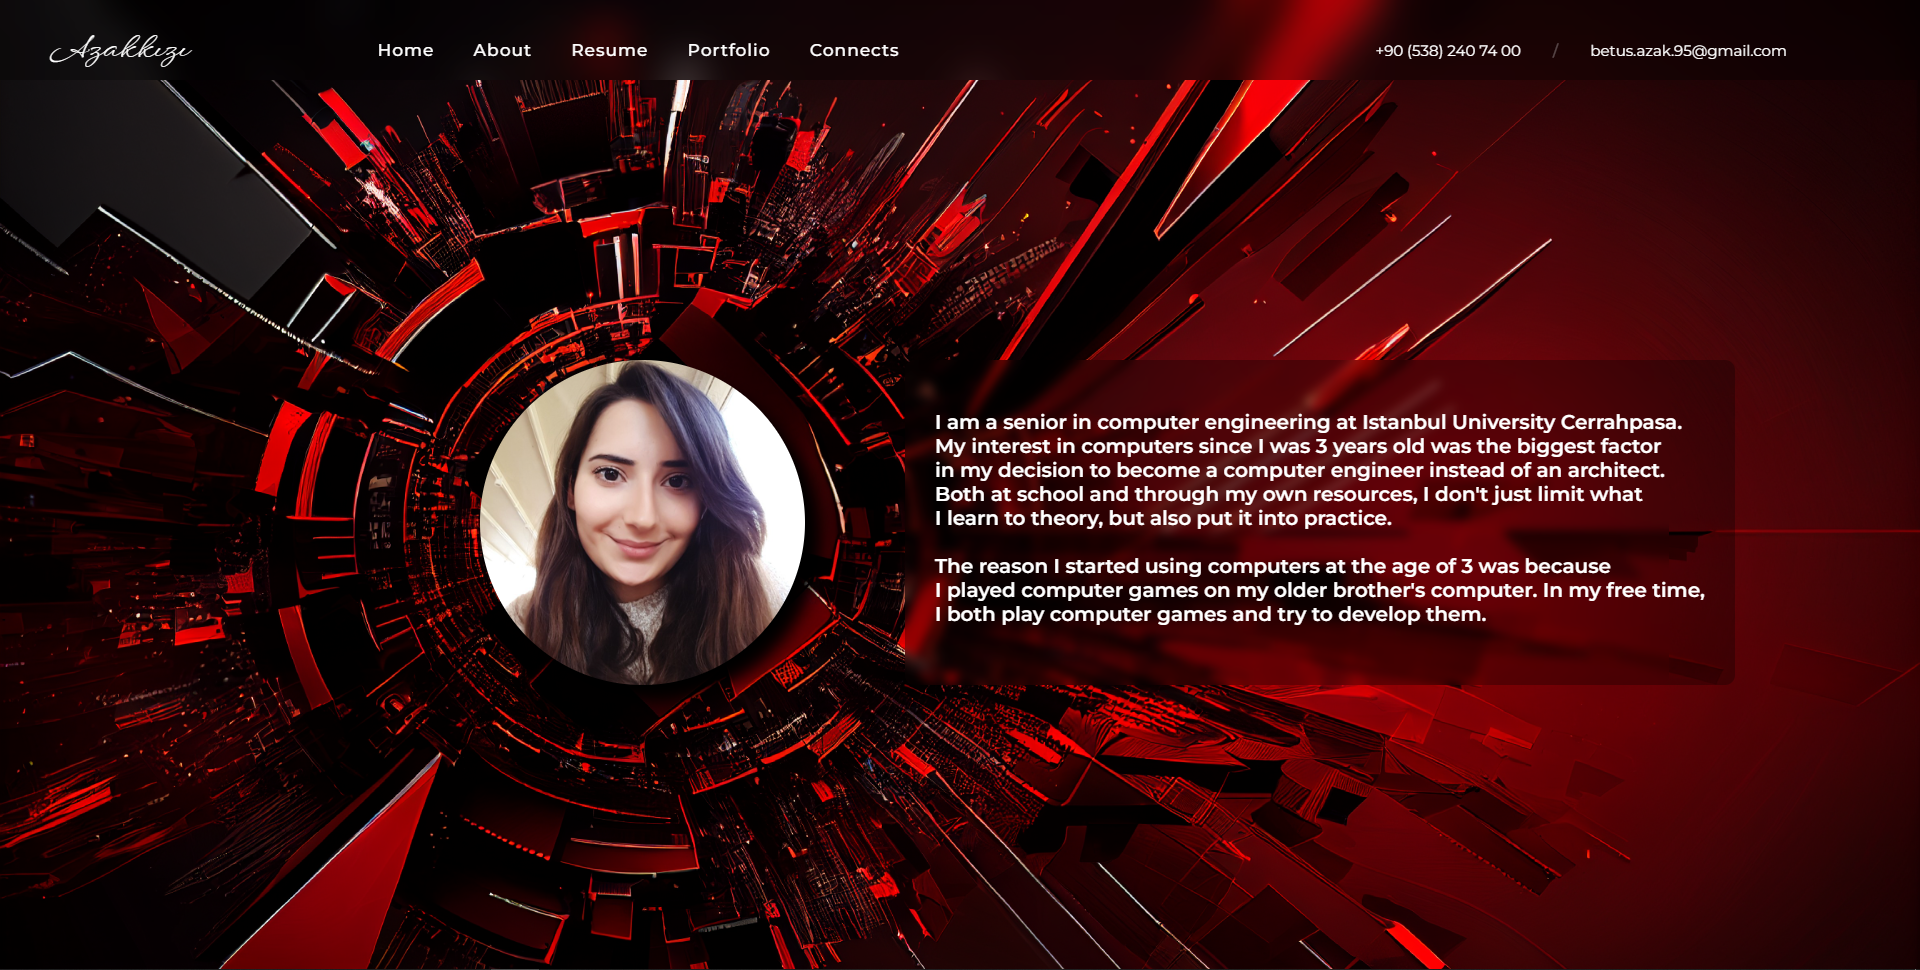
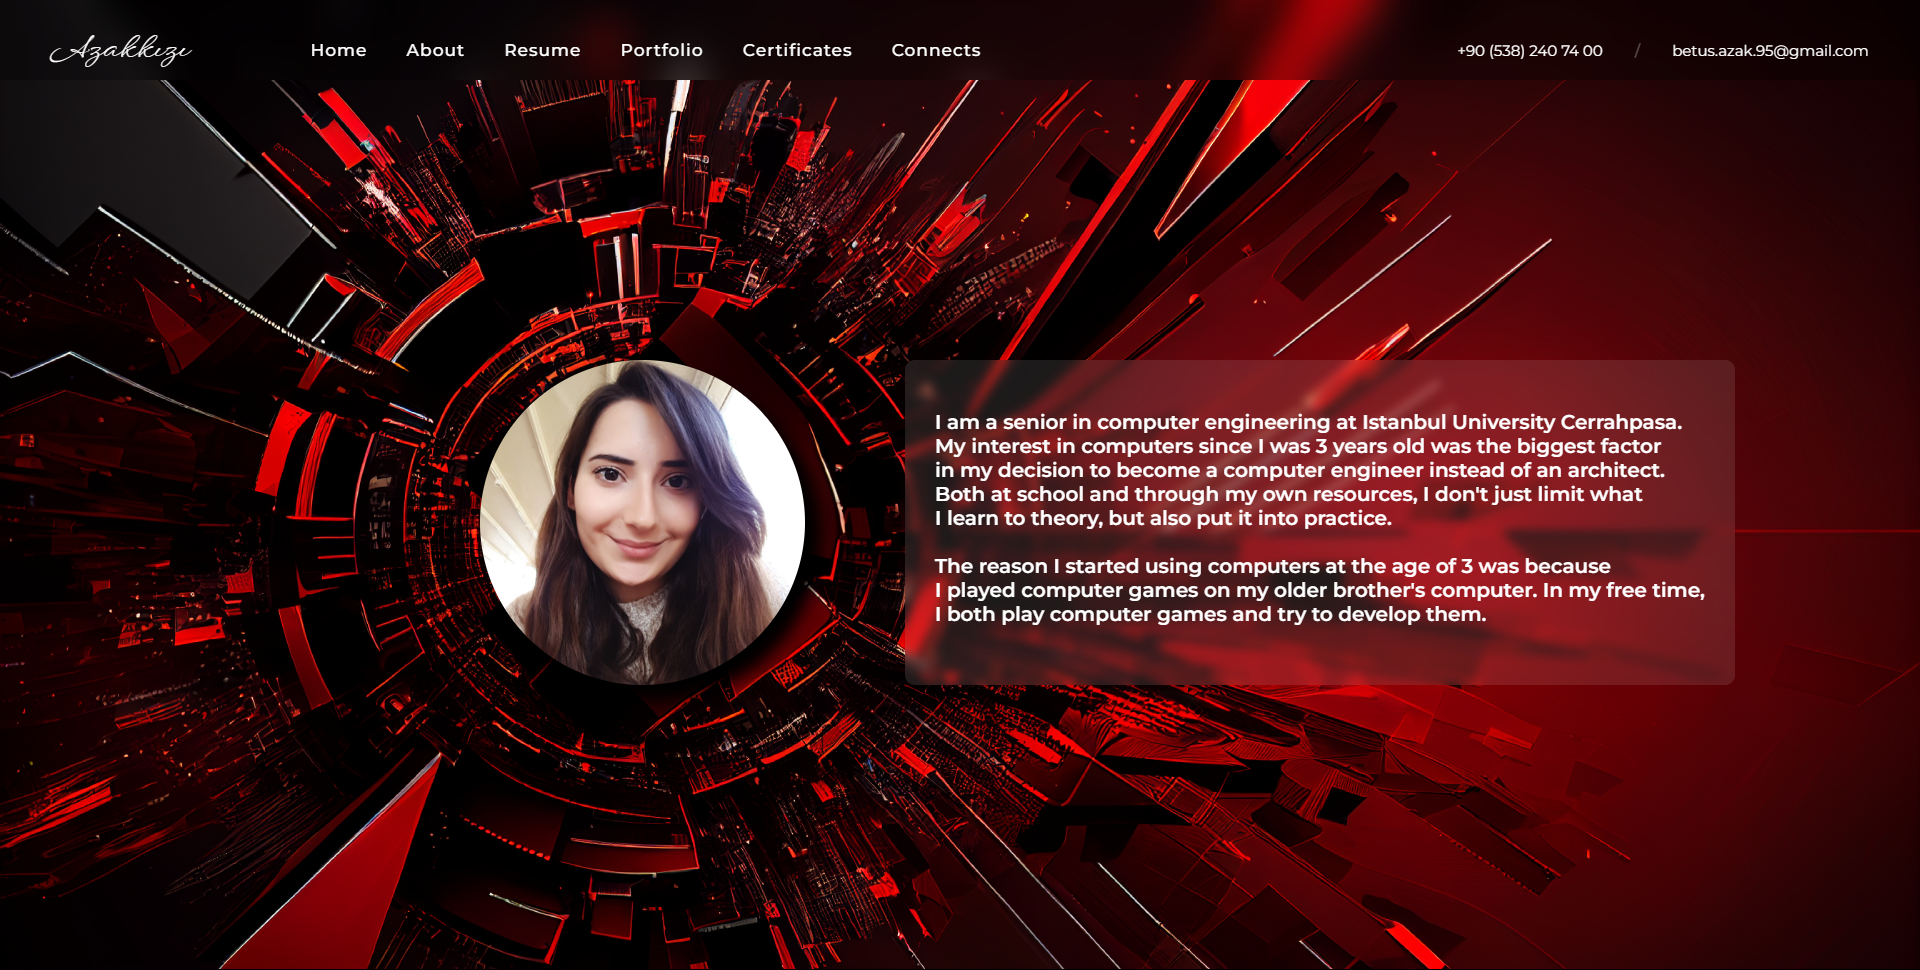
added certificates and some changes

Changed region(s): [[0.4688, 0.3711, 0.9062, 0.7113], [0.1562, 0.0309, 0.5, 0.0619], [0.7188, 0.0309, 0.9688, 0.0619]]

diff --git a/certificates.html b/certificates.html
@@ -1,0 +1,99 @@
+<!DOCTYPE html>
+<html>
+<head>
+	<title>Certificates - Betül Azakoğlu</title>
+	<meta charset="UTF-8">
+	<meta name="viewport" content="width=device-width, initial-scale=1">
+	<link rel="stylesheet" type="text/css" href="style.css">
+    <link rel="shortcut icon" type="image/x-icon" href="./images/favicon.png">
+    <link href="https://stackpath.bootstrapcdn.com/font-awesome/4.7.0/css/font-awesome.min.css" rel="stylesheet">
+    <link href="https://fonts.googleapis.com/css2?family=Montserrat:wght@300;400;500;600;700;800;900&display=swap" rel="stylesheet">
+    <link href="https://fonts.googleapis.com/css2?family=WindSong&display=swap" rel="stylesheet">
+    <script src="component.js"></script>
+    <script src="https://unpkg.com/scrollreveal"></script>
+    
+</head>
+<body>
+    <div class="header-certificates">
+        <my-navbar></my-navbar>
+        <div class="container-certificates">
+            <div class="cer">
+                <img src="images/certificates/cpp.png" class="cer-img">
+                <div class="text-box-cer">
+                    <h2 class="certificates">Saylor Academy (saylor.com)</h2>
+                    <br>
+                    <p><b>Course:</b> CS107: C++ Programming</p>
+                    <br>
+                    <a href="https://learn.saylor.org/admin/tool/certificate/index.php?code=7548220933BA" target="_blank"><b>Verification Link</b></a>
+                </div>
+            </div>
+            <hr>
+            <div class="cer">
+                <img src="images/certificates/java.png" class="cer-img">
+                <div class="text-box-cer">
+                    <h2 class="certificates">HackerRank</h2>
+                    <br>
+                    <p><b>Skill:</b> Java (Basic)</p>
+                    <br>
+                    <a href="https://www.hackerrank.com/certificates/d1ca2fca4fe0" target="_blank"><b>Verification Link</b></a>
+                </div>
+            </div>
+            <hr>
+            <div class="cer">
+                <img src="images/certificates/problem_solving_basic.png" class="cer-img">
+                <div class="text-box-cer">
+                    <h2 class="certificates">HackerRank</h2>
+                    <br>
+                    <p><b>Skill:</b> Problem Solving (Basic)</p>
+                    <br>
+                    <a href="https://www.hackerrank.com/certificates/4b5ac76c52da" target="_blank"><b>Verification Link</b></a>
+                </div>
+            </div>
+            <hr>
+            <div class="cer">
+                <img src="images/certificates/problem_solving_intermediate.png" class="cer-img">
+                <div class="text-box-cer">
+                    <h2 class="certificates">HackerRank</h2>
+                    <br>
+                    <p><b>Skill:</b> Problem Solving (Intermediate)</p>
+                    <br>
+                    <a href="https://www.hackerrank.com/certificates/ea95159ada96" target="_blank"><b>Verification Link</b></a>
+                </div>
+            </div>
+            <hr>
+            <div class="cer">
+                <img src="images/certificates/sql.png" class="cer-img">
+                <div class="text-box-cer">
+                    <h2 class="certificates">HackerRank</h2>
+                    <br>
+                    <p><b>Skill:</b> SQL (Basic)</p>
+                    <br>
+                    <a href="https://www.hackerrank.com/certificates/5bf33c72ba9a" target="_blank"><b>Verification Link</b></a>
+                </div>
+            </div>
+            <hr>
+            <div class="cer">
+                <img src="images/certificates/c_sharp.png" class="cer-img">
+                <div class="text-box-cer">
+                    <h2 class="certificates">HackerRank</h2>
+                    <br>
+                    <p><b>Skill:</b> C# (Basic)</p>
+                    <br>
+                    <a href="https://www.hackerrank.com/certificates/95986ee4a066" target="_blank"><b>Verification Link</b></a>
+                </div>
+            </div>
+        </div>
+    </div>
+    <script>
+        ScrollReveal({
+          reset: true,
+          distance: '60px',
+          duration: 2500,
+          delay: 100
+        });
+
+        ScrollReveal().reveal('.cer-img' , {delay: 10, origin: 'left'});
+        ScrollReveal().reveal('.text-box-cer' , {delay: 10, origin: 'right'});
+      </script>
+    </body>
+</html>

diff --git a/style.css b/style.css
@@ -71,6 +71,13 @@ ul{
     background-size: cover;
     background-attachment: fixed;
 }
+.header-certificates{
+    background-color: black;
+    background-image: url(images/bg-certificates.png);
+    background-repeat: no-repeat;
+    background-size: cover;
+    background-attachment: fixed;
+}
 .header-connects{
     position: relative;
     width: 100%;
@@ -102,6 +109,7 @@ ul{
 
 .header .navbar,
 .header-about .navbar,
+.header-certificates .navbar,
 .header-connects .navbar,
 .header-portfolio .navbar,
 .header-resume .navbar{
@@ -125,7 +133,7 @@ ul{
 }
 
 .menu ul {
-    margin-left: 192px;
+    margin-left: 125px;
 }
 
 .menu ul li{
@@ -151,6 +159,7 @@ ul{
 
 .header .contact-info,
 .header-about .contact-info,
+.header-certificates .contact-info,
 .header-connects .contact-info,
 .header-portfolio .contact-info,
 .header-resume .contact-info{
@@ -160,6 +169,7 @@ ul{
 
 .header .contact-info ul,
 .header-about .contact-info ul,
+.header-certificates .contact-info ul,
 .header-connects .contact-info ul,
 .header-portfolio .contact-info ul,
 .header-resume .contact-info ul{
@@ -168,6 +178,7 @@ ul{
 
 .header .contact-info ul li,
 .header-about .contact-info ul li,
+.header-certificates .contact-info ul li,
 .header-connects .contact-info ul li,
 .header-portfolio .contact-info ul li,
 .header-resume .contact-info ul li{
@@ -176,6 +187,7 @@ ul{
 
 .header .contact-info ul li a,
 .header-about .contact-info ul li a,
+.header-certificates .contact-info ul li a,
 .header-connects .contact-info ul li a,
 .header-portfolio .contact-info ul li a,
 .header-resume .contact-info ul li a{
@@ -186,6 +198,7 @@ ul{
 
 .header .contact-info ul li a:hover,
 .header-about .contact-info ul li a:hover,
+.header-certificates .contact-info ul li a:hover,
 .header-connects .contact-info ul li a:hover,
 .header-portfolio .contact-info ul li a:hover,
 .header-resume .contact-info ul li a:hover{
@@ -194,6 +207,7 @@ ul{
 
 .header .contact-info ul li a.sep,
 .header-about .contact-info ul li a.sep,
+.header-certificates .contact-info ul li a.sep,
 .header-connects .contact-info ul li a.sep,
 .header-portfolio .contact-info ul li a.sep,
 .header-resume .contact-info ul li a.sep{
@@ -246,6 +260,55 @@ ul{
     align-items: center;
     padding-top: 100px;
     flex-direction: column;
+}
+
+hr{
+    margin: 100px auto;
+    width: 80%;
+    border-color: rgba(255, 255, 255, 0.2);
+}
+
+.container-certificates{
+    position:relative;
+    margin-top: 100px;
+    padding-bottom: 100px;
+}
+
+.container-certificates div{
+    position: relative;
+    display: flex;
+    align-items: center;
+    margin-left: 20%;
+}
+
+.container-certificates div img{
+    width: 30%;
+    box-shadow: -5px 5px 15px;
+}
+
+.container-certificates div .text-box-cer{
+    position: relative;
+    display: block;
+    margin-top: 0;
+    margin-left: 10%;
+    color: #fff;
+    backdrop-filter: blur(5px);
+    background: rgb(255, 255, 255, 0.1);
+    padding: 40px;
+    margin-right: 80px;
+    min-width: 500px;
+    border: 1px solid rgba(255, 255, 255, 0.1);
+    border-radius: 10px;
+    text-align: center;
+}
+
+.container-certificates div .text-box-cer a{
+    color:#fff;
+    transition: all 0.5s;
+}
+
+.container-certificates div .text-box-cer a:hover{
+    color:rgb(190, 41, 21);
 }
 
 .section{
@@ -365,7 +428,6 @@ ul{
 }
 
 .slides-01 img{
-    width: 100%; 
     height: 340px;
     border: 2px solid rgb(255, 255, 255, 0.1);
 }
@@ -420,6 +482,10 @@ ul{
 
 #radio1-5:checked ~ .first{
     margin-left: -80%;
+}
+
+#radio1-6:checked ~ .first{
+    margin-left: -100%;
 }
 
 .slider-02{
@@ -586,9 +652,6 @@ ul{
     margin-bottom: 10px;
 }
 
-
-
-
 .container-resume{
     position: relative;
     top: 5%;
@@ -722,6 +785,7 @@ ul{
     cursor: pointer;
     background-color: rgb(255, 255, 255, 0.1);
     backdrop-filter: blur(5px);
+    border: 1px solid rgba(255, 255, 255, 0.1);
     transition: all 0.5s;
 }
 
@@ -737,6 +801,7 @@ ul{
     cursor: pointer;
     background-color: rgb(255, 255, 255, 0.1);
     backdrop-filter: blur(2px);
+    border: 1px solid rgba(255, 255, 255, 0.1);
     transition: all 0.5s;
 }
 

diff --git a/portfolio.html b/portfolio.html
@@ -29,6 +29,7 @@
               <input type="radio" name="radio-btn" id="radio1-3">
               <input type="radio" name="radio-btn" id="radio1-4">
               <input type="radio" name="radio-btn" id="radio1-5">
+              <input type="radio" name="radio-btn" id="radio1-6">
               <div class="slide-01 first">
                 <img src="images/azakkizi.me/1.png" alt="">
               </div>
@@ -44,11 +45,9 @@
               <div class="slide-01">
                 <img src="images/azakkizi.me/5.png" alt="">
               </div>
-              <div class="auto-btn1"></div>
-              <div class="auto-btn2"></div>
-              <div class="auto-btn3"></div>
-              <div class="auto-btn4"></div>
-              <div class="auto-btn5"></div>
+              <div class="slide-01">
+                <img src="images/azakkizi.me/6.png" alt="">
+              </div>
             </div>
           </div>
           <div class="navigation-manual-01">
@@ -57,6 +56,7 @@
             <label for="radio1-3" class="manual-btn"></label>
             <label for="radio1-4" class="manual-btn"></label>
             <label for="radio1-5" class="manual-btn"></label>
+            <label for="radio1-6" class="manual-btn"></label>
           </div>
           <div class="text-box">
             <h3>azakkizi.me</h3>

diff --git a/component.js b/component.js
@@ -12,6 +12,7 @@ class MyNavbar extends HTMLElement {
             <li><a href="about.html">About</a></li>
             <li><a href="resume.html">Resume</a></li>
             <li><a href="portfolio.html">Portfolio</a></li>
+            <li><a href="certificates.html">Certificates</a></li>
             <li><a href="connects.html">Connects</a></li>
         </ul>
     </div>
